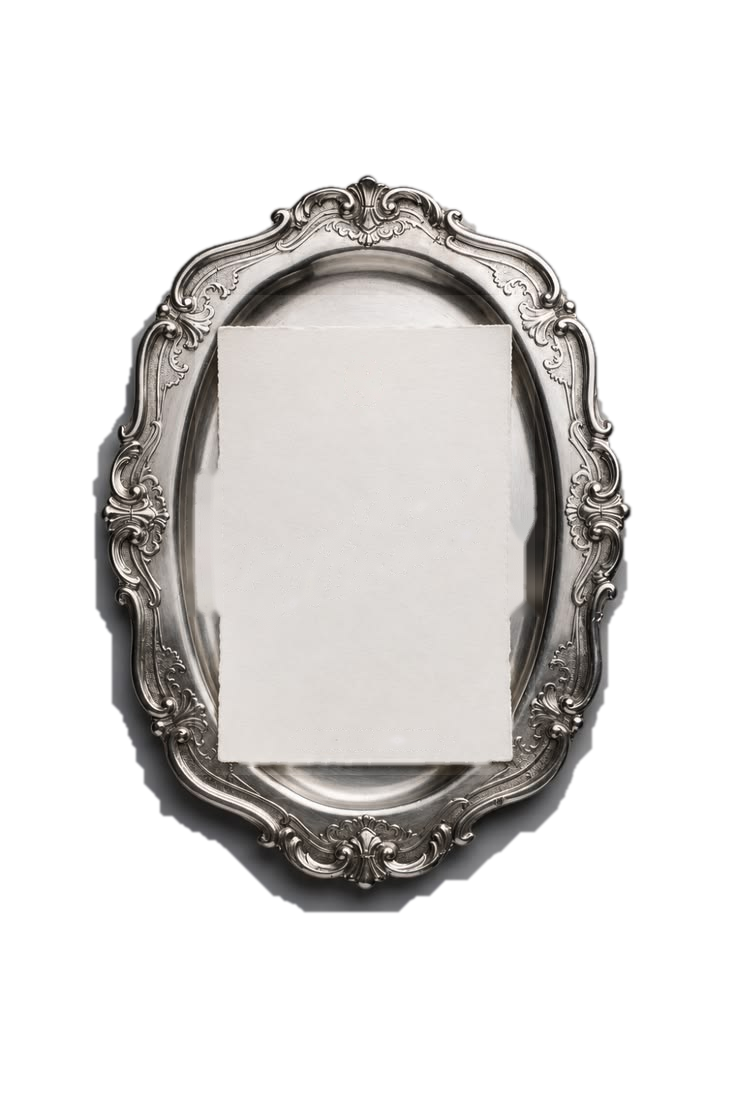
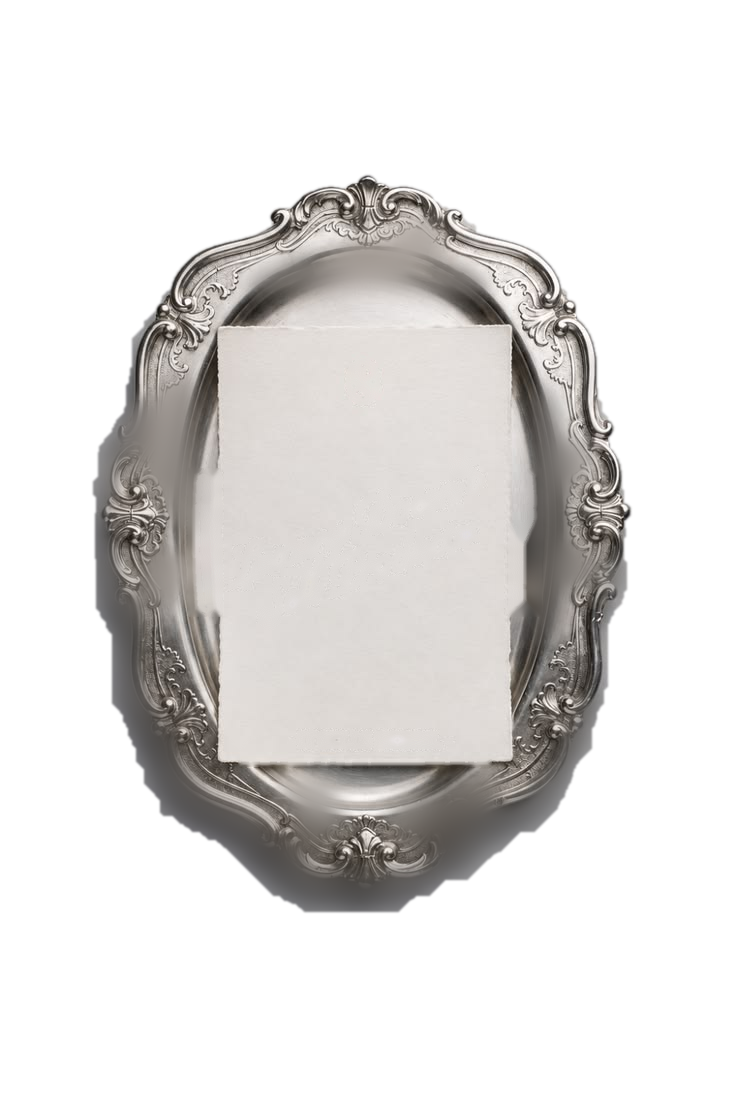
Flatten the frame's smooth dish tone, recentre the card text
The previous fix (a highlight-compression gamma over the whole frame)
darkened everything a bit but didn't fully kill the pale streak on the
smooth tray surface either side of the card — a gamma curve alone can't
remove a highlight's shape, only dim it. This instead detects the
smooth, low-texture band specifically (versus the carved scrollwork,
which was never the problem) and flattens just that with a heavy local
blur, so it reads as an evenly-toned polished dish on both sides.

Also shifts the three lines of copy down slightly so they sit centred
in the card's blank space instead of bunched toward the top.

Claude-Session: https://claude.ai/code/session_018cVrHxvtqPohuHnX6PutRN

Changed region(s): [[0.125, 0.3388, 0.8125, 0.8315], [0.7188, 0.3388, 0.8438, 0.5851], [0.3438, 0.1848, 0.6562, 0.2772]]

diff --git a/src/components/sections/registry-section.tsx b/src/components/sections/registry-section.tsx
@@ -32,15 +32,15 @@ export function RegistrySection() {
               framed-photo width, so none of it drifts onto the silver frame
               at either breakpoint. */}
 
-          <p className="absolute left-1/2 top-[34%] w-[38%] -translate-x-1/2 -translate-y-1/2 text-center kicker text-[10px] sm:text-xs text-taupe-600">
+          <p className="absolute left-1/2 top-[37%] w-[38%] -translate-x-1/2 -translate-y-1/2 text-center kicker text-[10px] sm:text-xs text-taupe-600">
             With love
           </p>
 
-          <h2 className="absolute left-1/2 top-[41.5%] w-[38%] -translate-x-1/2 -translate-y-1/2 text-center font-script italic text-xl sm:text-2xl leading-[1.15] text-burgundy-600">
+          <h2 className="absolute left-1/2 top-[44.5%] w-[38%] -translate-x-1/2 -translate-y-1/2 text-center font-script italic text-xl sm:text-2xl leading-[1.15] text-burgundy-600">
             A quick note on gifts
           </h2>
 
-          <p className="absolute left-1/2 top-[53.5%] w-[38%] -translate-x-1/2 -translate-y-1/2 text-center font-serif text-[10px] sm:text-sm leading-[1.4] text-burgundy-600/90">
+          <p className="absolute left-1/2 top-[56%] w-[38%] -translate-x-1/2 -translate-y-1/2 text-center font-serif text-[10px] sm:text-sm leading-[1.4] text-burgundy-600/90">
             Your presence is the greatest gift of all. For those who&rsquo;d
             still like to give, we have a wishing well for contributions
             towards our future together.
